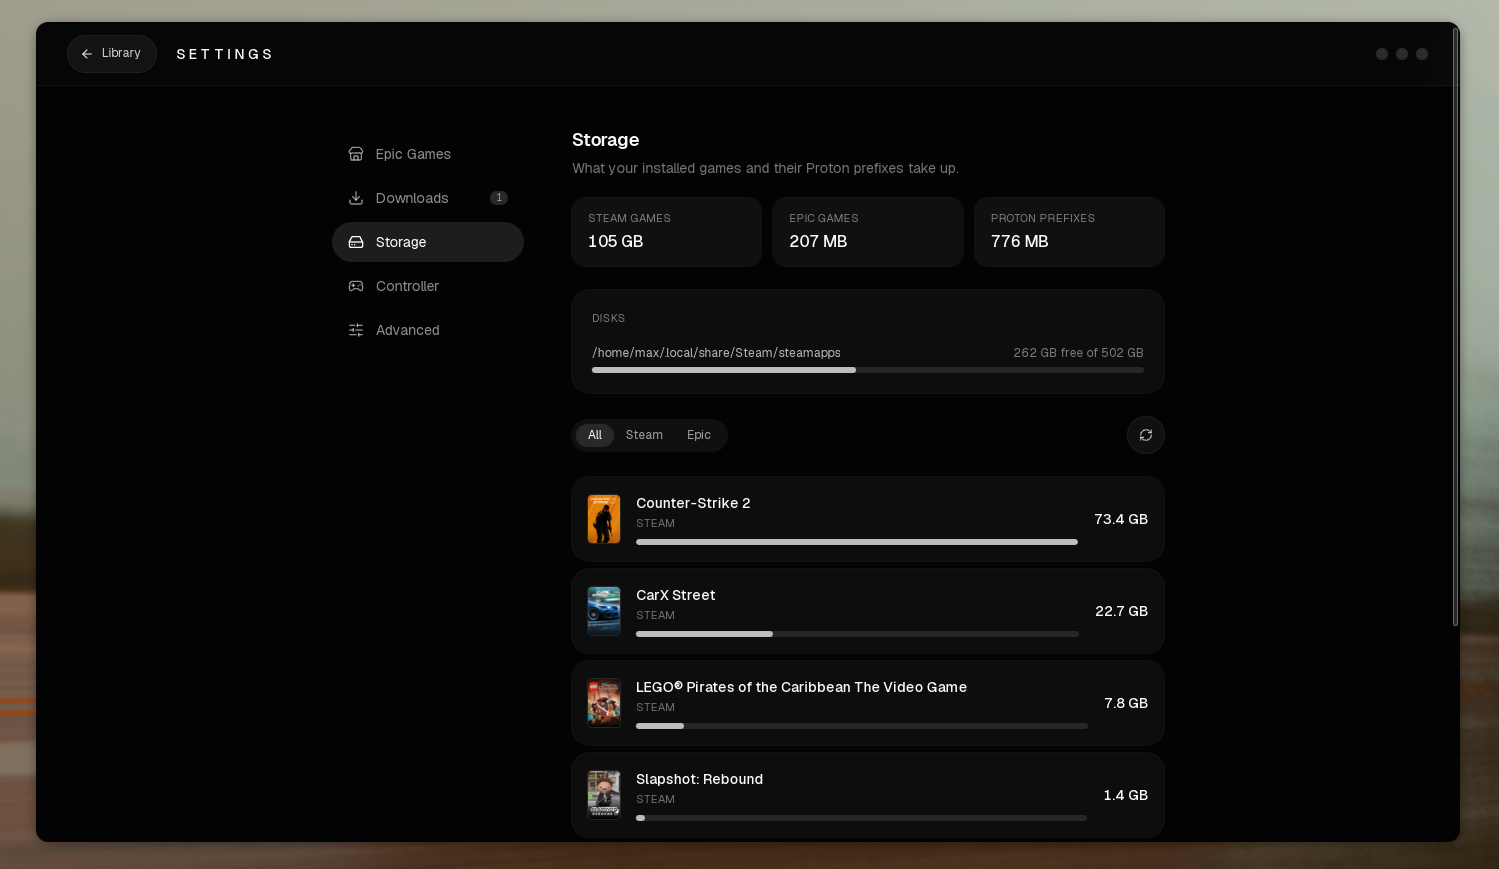
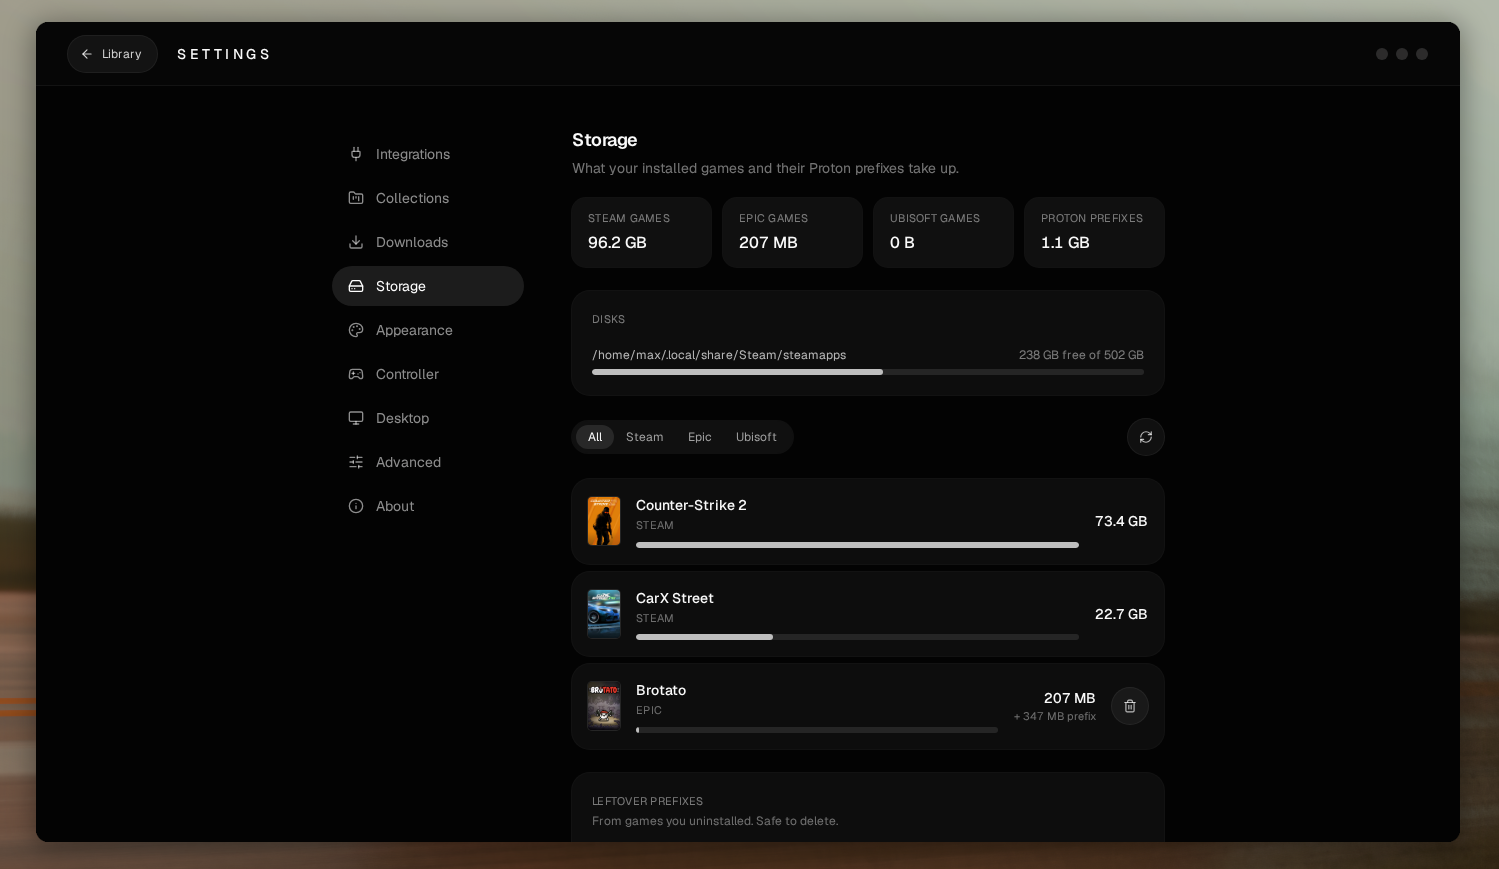
docs: new screenshots and readme updates
Refresh the library, detail, favorites and storage shots, and add shots for
activity, achievements, the share card, appearance, controller settings and
the hardware monitor. The monitor opens from the More menu, not a header
button, and P toggles it.

diff --git a/README.md b/README.md
@@ -140,7 +140,12 @@ make install
 - Frameless glass UI, dark only
 
 <p align="center">
-  <img src="assets/library-epic.png" alt="Library showing Steam and Epic games, with update and install badges">
+  <img src="assets/library-grid.png" alt="Library grid sorted by most played, with installed games in color">
+</p>
+
+<p align="center">
+  <img src="assets/activity.png" width="49%" alt="Activity heatmap and weekly stats">
+  <img src="assets/achievements.png" width="49%" alt="Achievements across the library">
 </p>
 
 ## Steam
@@ -165,7 +170,7 @@ Shelf drives [legendary](https://github.com/derrod/legendary), the same CLI Hero
 3. **Play** runs the game with Proton. Shelf finds Proton in Steam, `compatibilitytools.d` (GE-Proton) and Heroic's tools folder. Pick a version in the settings; by default the newest GE-Proton wins, then Proton Experimental.
 
 <p align="center">
-  <img src="assets/settings-epic.png" alt="Settings page, Epic Games section">
+  <img src="assets/settings-integrations.png" alt="Settings, Integrations, Epic Games tab">
 </p>
 
 Games install to `~/Games/Shelf` (changeable), each with its own Proton prefix in `~/.local/share/shelf/prefixes`. Play time for Epic games is recorded while Shelf is running, since Epic doesn't provide it.
@@ -226,8 +231,7 @@ Ubisoft downloads are done by Connect, so they aren't in this queue; they show a
 **Settings, Storage** shows how much space each Steam, Epic and Ubisoft game uses, free space per disk, and Proton prefixes, including leftovers from uninstalled games that you can delete. Ubisoft's games are installed inside one shared Connect prefix, so that is listed on its own with the games' space taken off, and is never offered as a leftover: **Reset** there deletes Connect's login and every Ubisoft game, and says so first.
 
 <p align="center">
-  <img src="assets/settings-downloads.png" width="49%" alt="Download queue">
-  <img src="assets/settings-storage.png" width="49%" alt="Disk usage">
+  <img src="assets/settings-storage.png" alt="Disk usage per game and store">
 </p>
 
 ## Appearance
@@ -241,6 +245,10 @@ Ubisoft downloads are done by Connect, so they aren't in this queue; they show a
 
 **Reset appearance** puts everything back.
 
+<p align="center">
+  <img src="assets/settings-appearance.png" alt="Settings, Appearance">
+</p>
+
 ## Collections and tags
 
 Open a game and use **Collections** and **Tags** in its sheet. A game can be in any number of collections (press **New collection** to make one on the spot) and carry any number of tags; type a tag and press Enter or a comma. The **Collections** button in the header narrows the library to one collection or tag, and works together with the store filter, search and the Favorites tab. **Settings, Collections** renames and deletes collections and removes a tag from every game.
@@ -250,6 +258,10 @@ Everything is saved in `~/.config/shelf/organizer.json`, separate from your favo
 ## Share card
 
 **More, Share card** draws a 1200×720 image of your library: total hours played, how many games you have per store, installed and favorite counts, and your five most played games with their covers. Press **Save as PNG** to put it wherever you like. The card holds only game titles, play time and counts, no paths, accounts or dates, and nothing is uploaded.
+
+<p align="center">
+  <img src="assets/share-card.png" alt="Share card with total hours, counts per store and the five most played games">
+</p>
 
 ## Friends
 
@@ -317,9 +329,13 @@ Shelf tells which kind of controller you have, by its USB vendor id, and shows t
 
 The sounds are Steam's own Deck UI sounds, played from your Steam install (nothing is copied or bundled). Without Steam, Shelf uses a small built-in set instead. Navigation, sounds and volume are under **Settings, Controller**. Dialogs and menus trap the focus, so the controller never wanders behind them.
 
+<p align="center">
+  <img src="assets/settings-controller.png" alt="Settings, Controller">
+</p>
+
 ## Hardware monitor
 
-A task-manager-style page for seeing what your machine is doing while you play. It's off by default: turn on **Hardware monitor** under **Settings, Advanced**, which adds a button to the header (and `P` opens it). Nothing is sampled while the page is closed.
+A task-manager-style page for seeing what your machine is doing while you play. It's off by default: turn on **Hardware monitor** under **Settings, Advanced**, which adds **Performance** to the **More** menu (and `P` opens it). Nothing is sampled while the page is closed.
 
 - **CPU:** utilization over the last minute, overall or per logical processor, with clock speed, temperature, processes, threads, load average and uptime
 - **Memory:** usage, what is cached and could be reclaimed, free memory and swap
@@ -328,6 +344,10 @@ A task-manager-style page for seeing what your machine is doing while you play. 
 - **GPUs:** utilization, video memory, temperature, power and clock for AMD (read from the kernel) and NVIDIA (through `nvidia-smi`). Intel shows its clock. A card that has powered itself down to save energy is shown as such and isn't woken to take a reading. An NVIDIA card that is awake stays awake while the page is open
 
 Everything is read from `/proc` and `/sys`, once a second, so it needs no extra tools. Temperatures appear when the kernel has a sensor for them.
+
+<p align="center">
+  <img src="assets/monitor.png" alt="Hardware monitor showing CPU, memory, disk, network and GPU graphs">
+</p>
 
 ## Log window
 
@@ -339,8 +359,9 @@ Everything is read from `/proc` and `/sys`, once a second, so it needs no extra 
 | Key | Action |
 | --- | --- |
 | `/` | Focus search |
-| `Esc` | Clear search, or leave the settings page |
+| `Esc` | Clear search, or leave the settings page or hardware monitor |
 | `R` | Open a random game from the current view |
+| `P` | Open or close the hardware monitor, once it is turned on |
 
 ## Development
 
